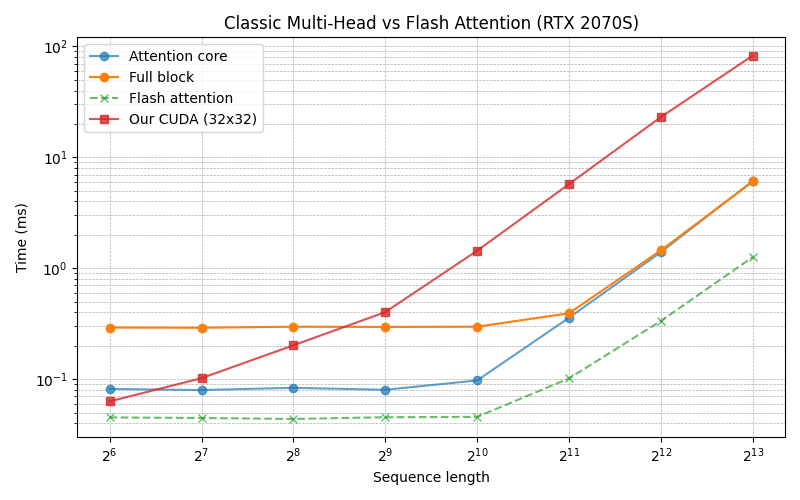
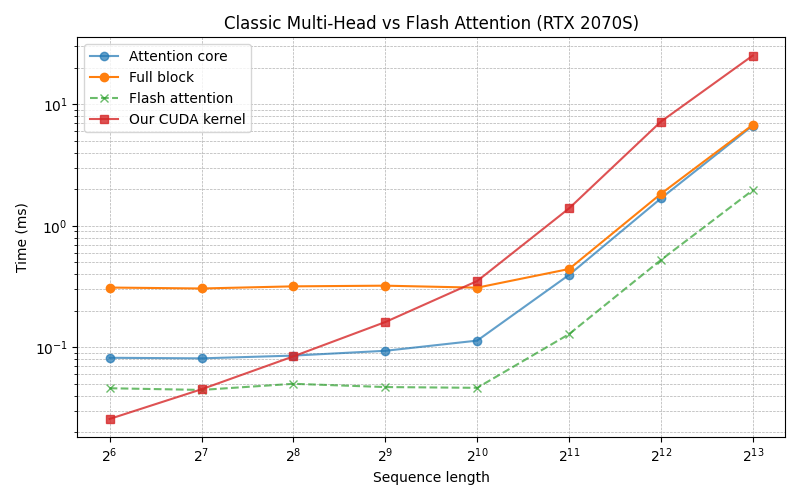
migrate to WMMA
Replaced FP32 dot products with tensor core WMMA fragments. Major performance improvement, but kernel now assumes fixed block layout.

diff --git a/src/test_perf.py b/src/test_perf.py
@@ -24,14 +24,14 @@ d_model = 64
 num_heads = 1
 head_dim = d_model // num_heads
 seq_lens = [64, 128, 256, 512, 1024, 2048, 4096, 8192]
-''''''
+'''247, '''
 mask = None
 
 attentionBlock = MultiHeadAttentionBlock(d_model, num_heads, dropout=0.0).cuda().float()
 
 results = []
-num_iters = 1000 if IS_BENCH else 30
-num_warms = 100 if IS_BENCH else 5
+num_iters = 1000 if IS_BENCH else 1000
+num_warms = 100 if IS_BENCH else 100
 # numWarps sweep (powers of two, starting from 4)
 num_warps_list = [4, 8, 16, 32]
 our_kernel_sweep_results = []  # (seq_len, num_warps, time_ms)
@@ -60,7 +60,7 @@ for seq_len in seq_lens:
     
     # our kernel check
     try:
-        output = forward(q_cuda, k_cuda, v_cuda, scale=1.0, num_warps=16 if not IS_BENCH else 32)
+        output = forward(q_cuda, k_cuda, v_cuda, scale=1.0, num_warps=32 if not IS_BENCH else 32)
         print(f"Output contains nan: {torch.isnan(output).any()}")
         print(f"Output contains inf: {torch.isinf(output).any()}")
     except Exception as e:
@@ -77,7 +77,7 @@ for seq_len in seq_lens:
         output = torch.matmul(attn, vf)
         return output.half()
 
-    output_cuda = forward(q_cuda, k_cuda, v_cuda, scale=1.0, num_warps=16 if not IS_BENCH else 32)
+    output_cuda = forward(q_cuda, k_cuda, v_cuda, scale=1.0, num_warps=32 if not IS_BENCH else 32)
     output_ref = torch_reference_attention(q_cuda, k_cuda, v_cuda)
     diff = (output_cuda.float() - output_ref.float()).abs()
     print(f"Max diff: {diff.max().item():.9f}")
@@ -124,12 +124,12 @@ for seq_len in seq_lens:
     # warm-up
     for _ in range(num_warms):
         with torch.no_grad():
-            forward(q_cuda, k_cuda, v_cuda, scale=1.0, num_warps=16 if not IS_BENCH else 32)
+            forward(q_cuda, k_cuda, v_cuda, scale=1.0, num_warps=32 if not IS_BENCH else 32)
     torch.cuda.synchronize()
     
     startOurCuda.record()
     for _ in range(num_iters):
-        forward(q_cuda, k_cuda, v_cuda, scale=1.0, num_warps=16 if not IS_BENCH else 32)
+        forward(q_cuda, k_cuda, v_cuda, scale=1.0, num_warps=32 if not IS_BENCH else 32)
     endOurCuda.record()
     torch.cuda.synchronize()
 
@@ -169,19 +169,19 @@ for seq_len in seq_lens:
             our_kernel_sweep_results.append((seq_len, nw, avg_ms))
 
 # saving results
+import csv
+
+benchmarks_dir = os.path.join(current_dir, 'benchmarks')
+os.makedirs(benchmarks_dir, exist_ok=True)
+
+csv_path = os.path.join(benchmarks_dir, 'attention_benchmark.csv')
+with open(csv_path, "w", newline="") as f:
+    writer = csv.writer(f)
+    writer.writerow(["seq_len", "core_ms", "full_ms", "flash_ms", "our_cuda_ms"])
+    writer.writerows(results)
+print(f"results saved to {csv_path}")
+
 if IS_BENCH:
-    import csv
-
-    benchmarks_dir = os.path.join(current_dir, 'benchmarks')
-    os.makedirs(benchmarks_dir, exist_ok=True)
-
-    csv_path = os.path.join(benchmarks_dir, 'attention_benchmark.csv')
-    with open(csv_path, "w", newline="") as f:
-        writer = csv.writer(f)
-        writer.writerow(["seq_len", "core_ms", "full_ms", "flash_ms", "our_cuda_ms"])
-        writer.writerows(results)
-    print(f"results saved to {csv_path}")
-
     csv_path_sweep = os.path.join(benchmarks_dir, 'our_kernel_numwarps_sweep.csv')
     with open(csv_path_sweep, "w", newline="") as f:
         writer = csv.writer(f)

diff --git a/src/plot_results.py b/src/plot_results.py
@@ -9,7 +9,7 @@ plt.figure(figsize=(8,5))
 plt.plot(df["seq_len"], df["core_ms"], marker="o", alpha = 0.7, label="Attention core")
 plt.plot(df["seq_len"], df["full_ms"], marker="o", label="Full block")
 plt.plot(df["seq_len"], df["flash_ms"], marker="x", ls = '--', alpha = 0.7, label="Flash attention")
-plt.plot(df["seq_len"], df["our_cuda_ms"], marker="s", alpha=0.8, label="Our CUDA (32x32)")
+plt.plot(df["seq_len"], df["our_cuda_ms"], marker="s", alpha=0.8, label="Our CUDA kernel")
 
 plt.xticks(df["seq_len"])
 seq_ticks = sorted(df["seq_len"].unique().tolist())

diff --git a/README.md b/README.md
@@ -1,2 +1,1 @@
 ![Baseline](src/benchmarks/perf_plot.png)
-![Our kernel](src/benchmarks/our_kernel_numwarps_sweep.png)
